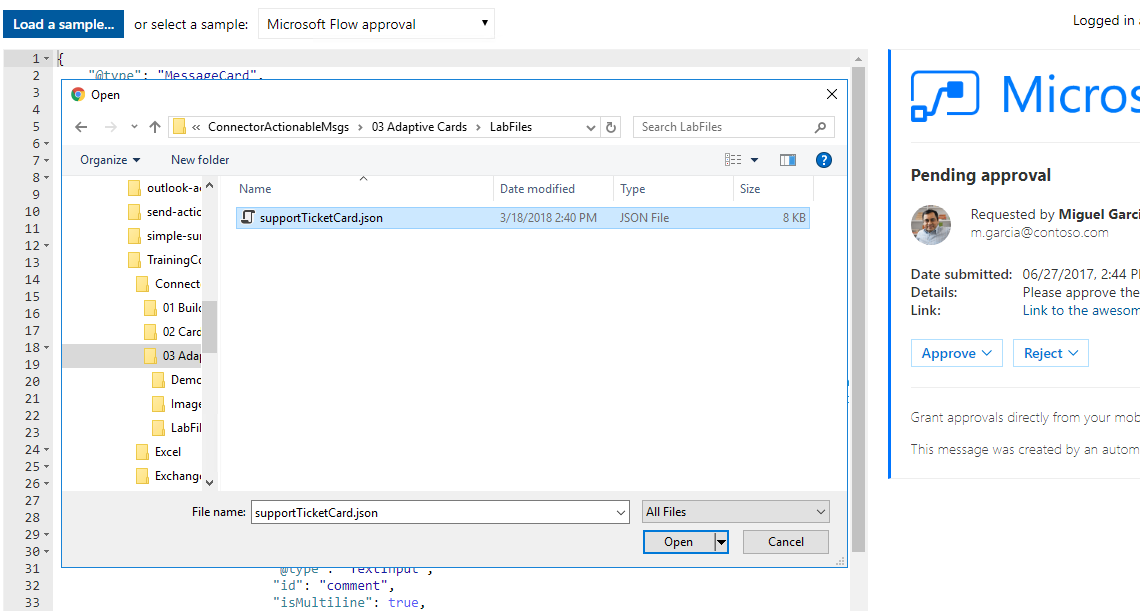
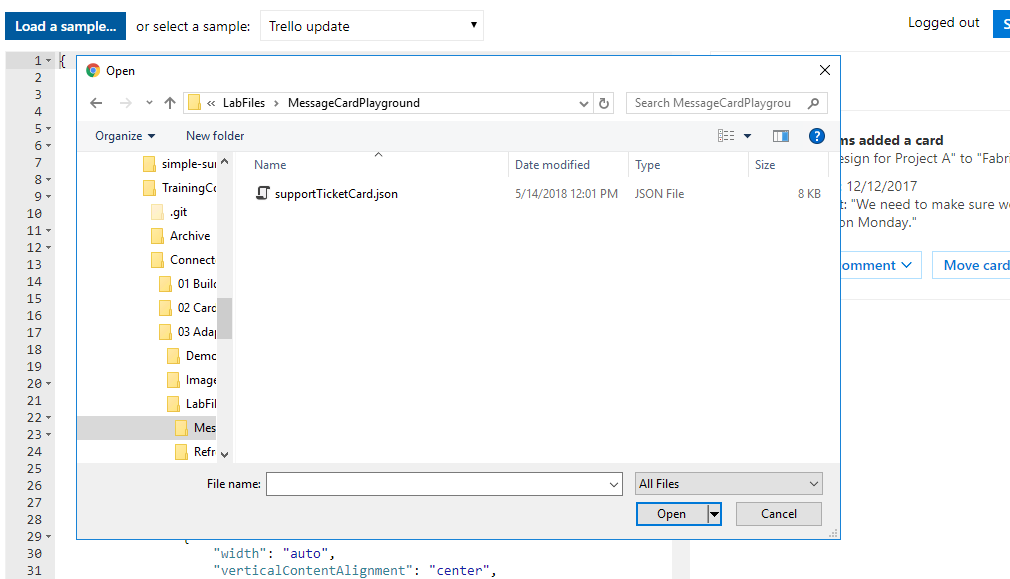
Fix path to file

Changed region(s): [[0.0, 0.0, 1.0, 1.0], [0.8901, 0.0, 1.0, 0.0933], [0.4297, 0.9637, 0.4911, 0.9948]]

diff --git a/ConnectorActionableMsgs/03 Adaptive Cards/Lab.md b/ConnectorActionableMsgs/03 Adaptive Cards/Lab.md
@@ -45,7 +45,8 @@ This exercise will walk you through designing an Adaptive Card and sending it vi
 
 1. On the [MessageCard Playground](https://messagecardplayground.azurewebsites.net/) page, select **Load a Sample...**.
 
-1. In the **Open file** dialog, select the file **LabFiles/message-payground/supportTicketCard.json**.
+1. In the **Open file** dialog, select the file **LabFiles/MessageCardPlayground/supportTicketCard.json**.
+
 
     ![Screenshot of MessageCard Playground file open menu.](Images/LabPlaygroundOpen.png)
 
